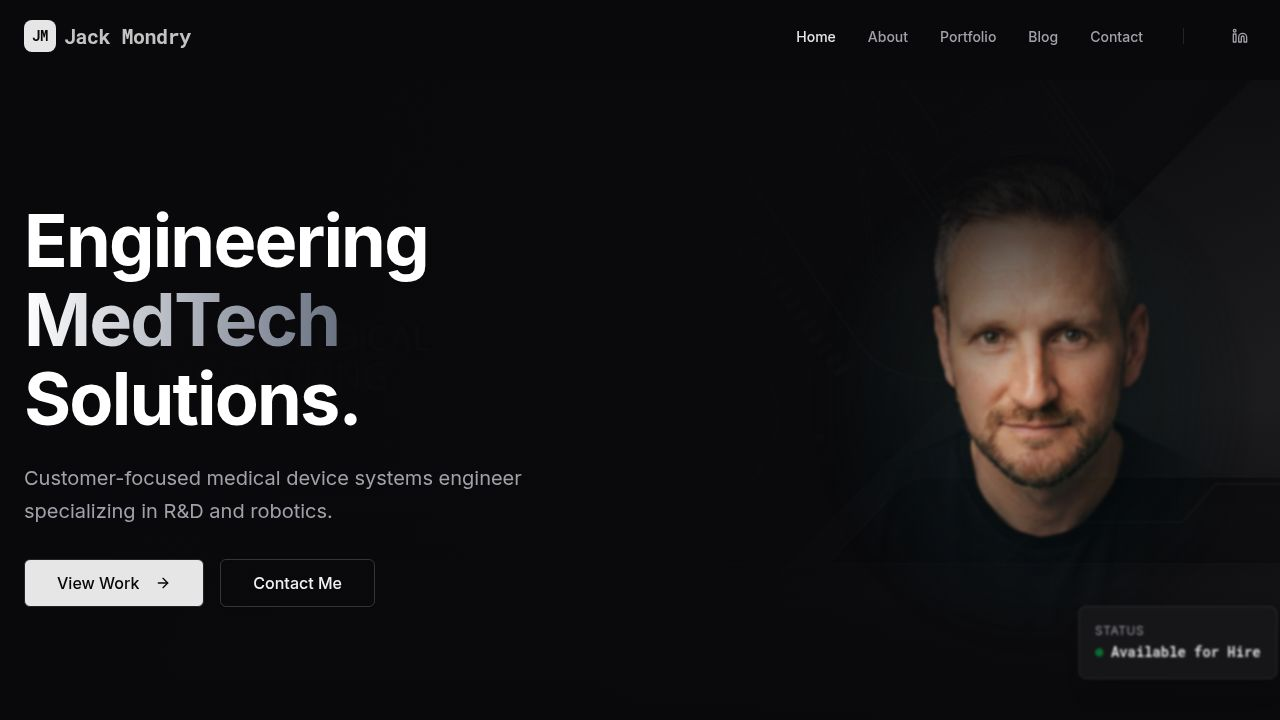
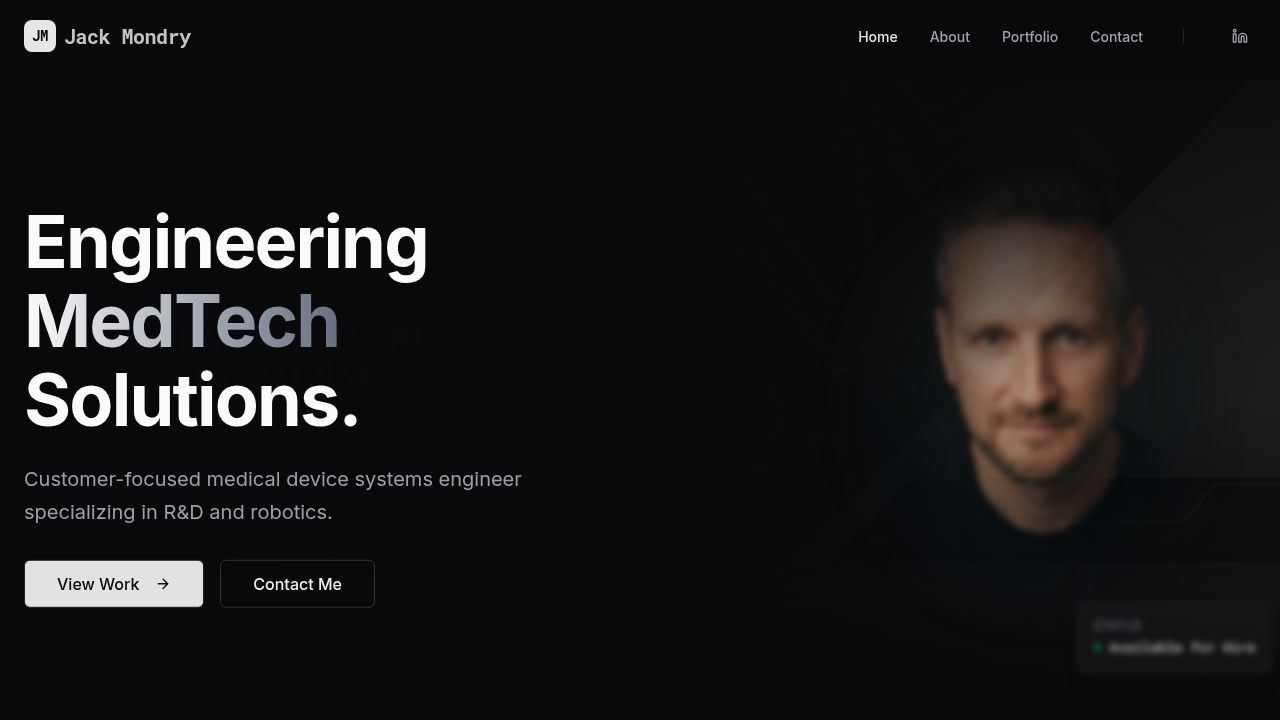
Remove the blog section and navigation links
Remove blog imports, routes, and navbar links from the application.

Replit-Commit-Author: Agent
Replit-Commit-Session-Id: e7cc2488-59f6-4819-8507-2b1855e5226f
Replit-Commit-Checkpoint-Type: full_checkpoint
Replit-Commit-Event-Id: ca74ce7b-7b2e-4c3d-a676-e09a48cda60a
Replit-Commit-Screenshot-Url: https://storage.googleapis.com/screenshot-production-us-central1/e57c73f6-bd70-426b-b3ee-581bf0628ea6/e7cc2488-59f6-4819-8507-2b1855e5226f/m52k0tv
Replit-Helium-Checkpoint-Created: true

diff --git a/client/src/App.tsx b/client/src/App.tsx
@@ -7,20 +7,14 @@ import NotFound from "@/pages/not-found";
 import Home from "@/pages/Home";
 import About from "@/pages/About";
 import Portfolio from "@/pages/Portfolio";
-import Blog from "@/pages/Blog";
-import BlogPost from "@/pages/BlogPost";
-import BlogEditor from "@/pages/BlogEditor";
 import Contact from "@/pages/Contact";
 
 function Router() {
   return (
     <Switch>
       <Route path="/" component={Home} />
-      <Route path="/about" component={About} /> {/* Adding alias just in case, though Nav uses /portfolio for "work" section usually, but let's map /about to About page if I created one separately or reuse sections. Wait, I created About.tsx but nav links to Portfolio. Let's make sure Nav links match. Nav has Home, Portfolio, Blog, Contact. I should map /portfolio to Portfolio.tsx. I also created About.tsx. Let's map /about too. */}
+      <Route path="/about" component={About} />
       <Route path="/portfolio" component={Portfolio} />
-      <Route path="/blog" component={Blog} />
-      <Route path="/blog/new" component={BlogEditor} />
-      <Route path="/blog/:id" component={BlogPost} />
       <Route path="/contact" component={Contact} />
       <Route component={NotFound} />
     </Switch>

diff --git a/client/src/components/layout/Navbar.tsx b/client/src/components/layout/Navbar.tsx
@@ -21,7 +21,6 @@ export function Navbar() {
     { name: "Home", href: "/" },
     { name: "About", href: "/about" },
     { name: "Portfolio", href: "/portfolio" },
-    { name: "Blog", href: "/blog" },
     { name: "Contact", href: "/contact" },
   ];
 
